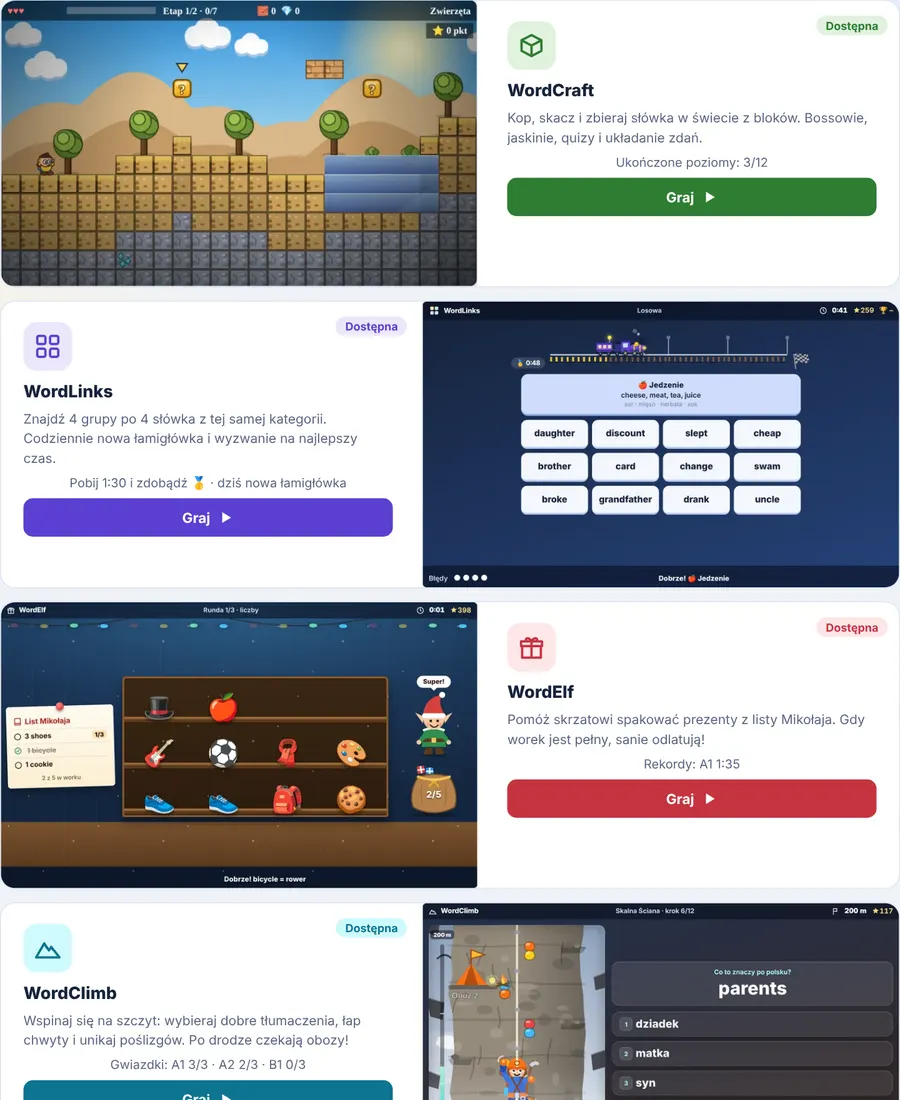
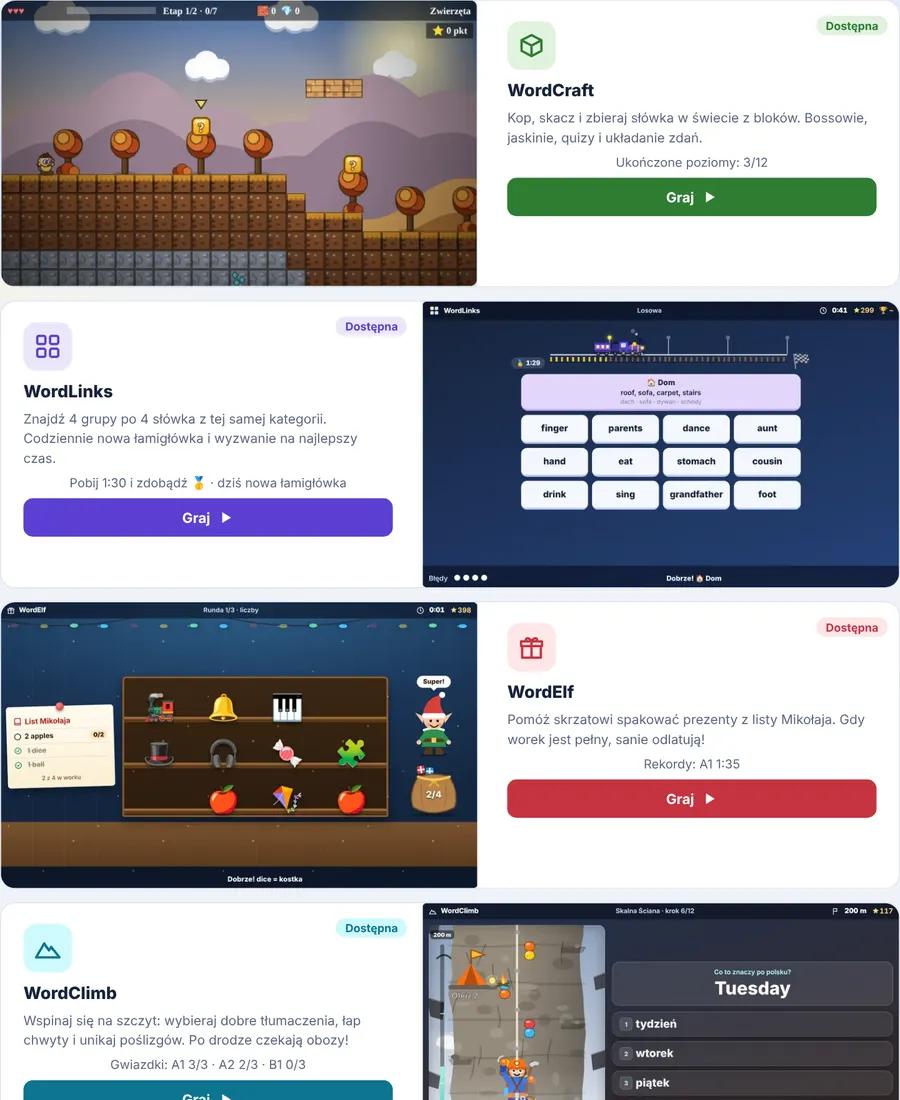
WordLinks: końcówka bez nakładających się elementów (pociąg przed ostatnią lampą, zgrabniejsze wiersze, bez 🎉)
Claude-Session: https://claude.ai/code/session_01MyUW9fQB8JttoV36Ji4mpt

diff --git a/index.html b/index.html
@@ -794,11 +794,11 @@ html[data-season=winter] .hero::after{inset:0;width:auto;height:auto;border-radi
 .tw-fl i::after{content:"";position:absolute;right:-1px;top:-34px;width:2px;height:31px;background:#94a3b8}
 .tw-fl i::before{content:"";position:absolute;right:-4px;top:-40px;width:8px;height:8px;border-radius:50%;background:#64748b;z-index:1}
 .tw-fl i.on::before{background:#fde047;box-shadow:0 0 9px #fde047}
-.tw-man,.tw-man.go{--p:calc(var(--up)/var(--n)*100%);position:absolute;bottom:auto;top:-50px;left:var(--p);margin:0;width:auto;transform:translateX(calc(var(--up)/var(--n)*-100%));font-size:0;filter:drop-shadow(0 3px 3px rgba(0,0,0,.45))}
+.tw-man,.tw-man.go{--p:calc(var(--up)/var(--n)*100%);position:absolute;bottom:auto;top:-50px;left:var(--p);margin:0;width:auto;transform:translateX(calc(var(--up)/var(--n)*-100% - var(--up)/var(--n)*16px));font-size:0;filter:drop-shadow(0 3px 3px rgba(0,0,0,.45))}
 .tw-man.go{animation:twtr .9s var(--ease-out)}
-@keyframes twtr{from{left:calc(var(--from)/var(--n)*100%);transform:translateX(calc(var(--from)/var(--n)*-100%))}}
+@keyframes twtr{from{left:calc(var(--from)/var(--n)*100%);transform:translateX(calc(var(--from)/var(--n)*-100% - var(--from)/var(--n)*16px))}}
 .cn-tower.slip .tw-man{animation:twsh .4s}
-@keyframes twsh{25%{transform:translateX(calc(var(--up)/var(--n)*-100% - 4px)) rotate(-1.5deg)}75%{transform:translateX(calc(var(--up)/var(--n)*-100% + 4px)) rotate(1.5deg)}}
+@keyframes twsh{25%{transform:translateX(calc(var(--up)/var(--n)*-100% - var(--up)/var(--n)*16px - 4px)) rotate(-1.5deg)}75%{transform:translateX(calc(var(--up)/var(--n)*-100% - var(--up)/var(--n)*16px + 4px)) rotate(1.5deg)}}
 .tw-svg{display:block;width:108px;height:54px;overflow:visible}
 .tw-wh{transform-box:fill-box;transform-origin:center;animation:twwh .7s linear infinite}
 @keyframes twwh{to{transform:rotate(360deg)}}
@@ -806,7 +806,7 @@ html[data-season=winter] .hero::after{inset:0;width:auto;height:auto;border-radi
 .tw-smk circle:nth-child(2){animation-delay:.5s}.tw-smk circle:nth-child(3){animation-delay:1s}
 @keyframes twsmk{0%{opacity:.85;transform:translate(0,0) scale(.5)}100%{opacity:0;transform:translate(-14px,-16px) scale(1.7)}}
 .tw-hr{position:absolute;right:-40px;top:-14px;font-size:22px;font-style:normal;animation:floaty 1.2s ease-in-out infinite}
-@media(min-width:701px){.cn-t{min-height:58px}}
+@media(min-width:701px){.cn-t{min-height:58px}.cn-row,.cn-over .cn-row{min-height:0;padding:7px 10px}}
 .cn-tower.top .tw-man.go{animation-duration:2s;animation-timing-function:cubic-bezier(.45,.05,.3,1)}
 .cn-tower.top .tw-hr{animation:twpop .6s 1.9s both,floaty 1.2s 2.5s ease-in-out infinite}
 @keyframes twpop{from{transform:scale(0) rotate(-30deg);opacity:0}to{transform:none;opacity:1}}
@@ -2580,7 +2580,7 @@ function cnTower(wait){
   CN.ush=up;
   return '<div class="cn-tower'+(CN.shake?' slip':'')+(up===N?' top':'')+'" role="img" aria-label="Stacja '+up+' z '+N+'" style="--n:'+N+';--up:'+up+';--from:'+prev+'">'
    +'<div class="tw-top"><span id="cn-pace">'+(CN.over?(CN.won?cnMedal(CN.ms,sp)||'🏁':'—'):cnPaceTxt())+'</span></div><div class="tw-roof">🏁</div>'
-   +'<div class="tw-fl">'+Array.from({length:N},(_,k)=>'<i class="'+(N-k<=up?'on':'')+'"></i>').join('')+'<b class="tw-man'+(prev!==up?' go':'')+'">'+cnTrain()+(up===N?'<i class="tw-hr">🎉</i>':'')+'</b></div></div>';
+   +'<div class="tw-fl">'+Array.from({length:N},(_,k)=>'<i class="'+(N-k<=up?'on':'')+'"></i>').join('')+'<b class="tw-man'+(prev!==up?' go':'')+'">'+cnTrain()+'</b></div></div>';
 }
 function renderConn(){
   const root=$('v-conn');if(!root)return;
